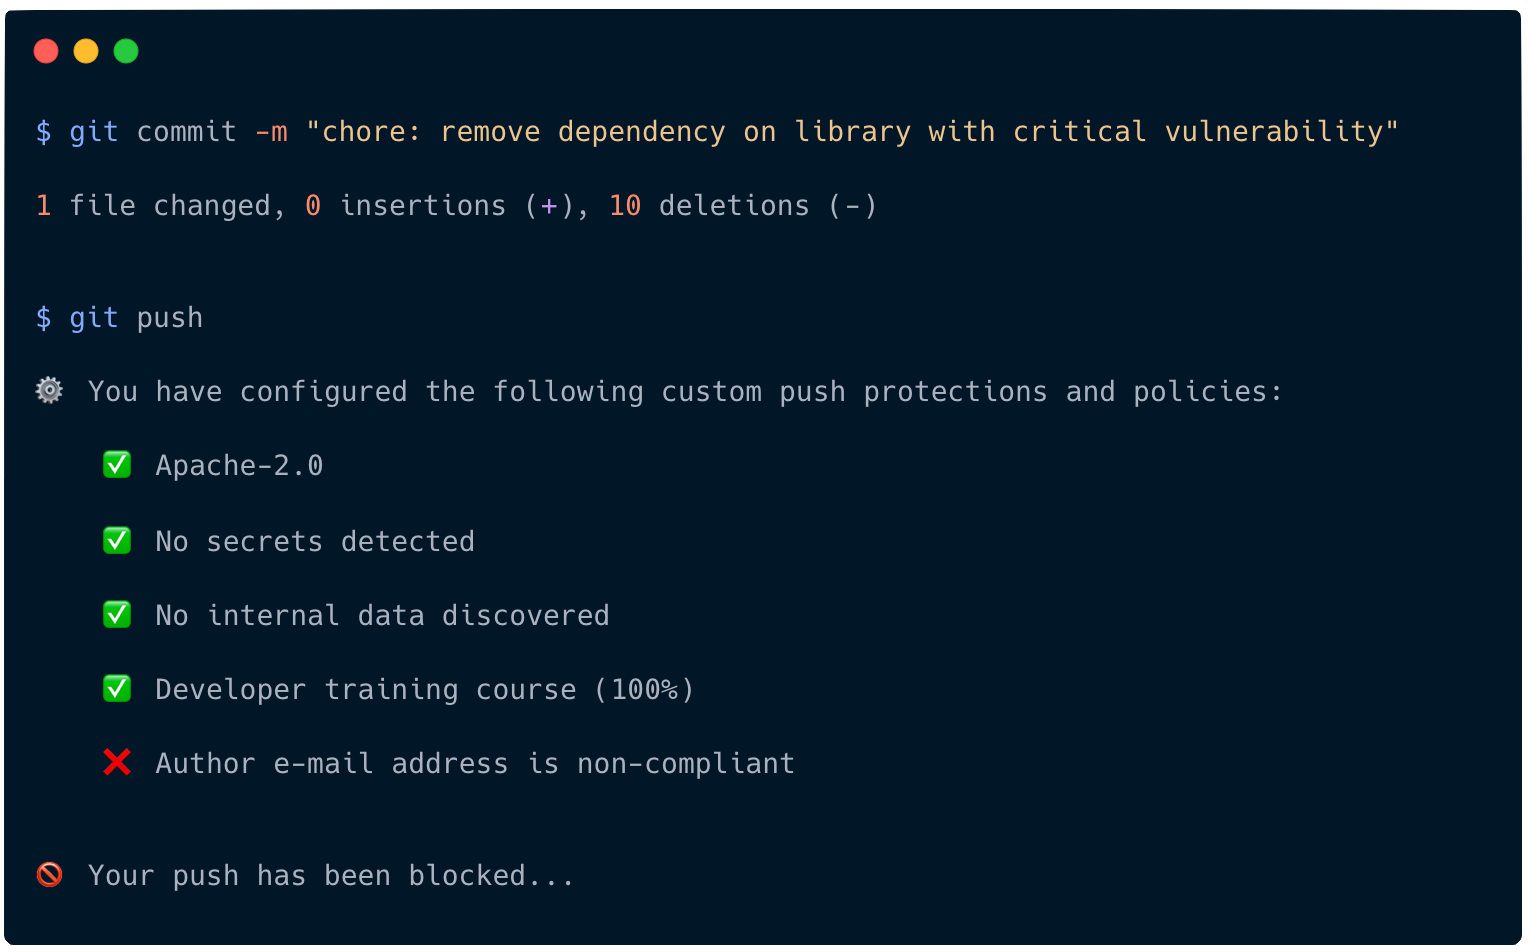
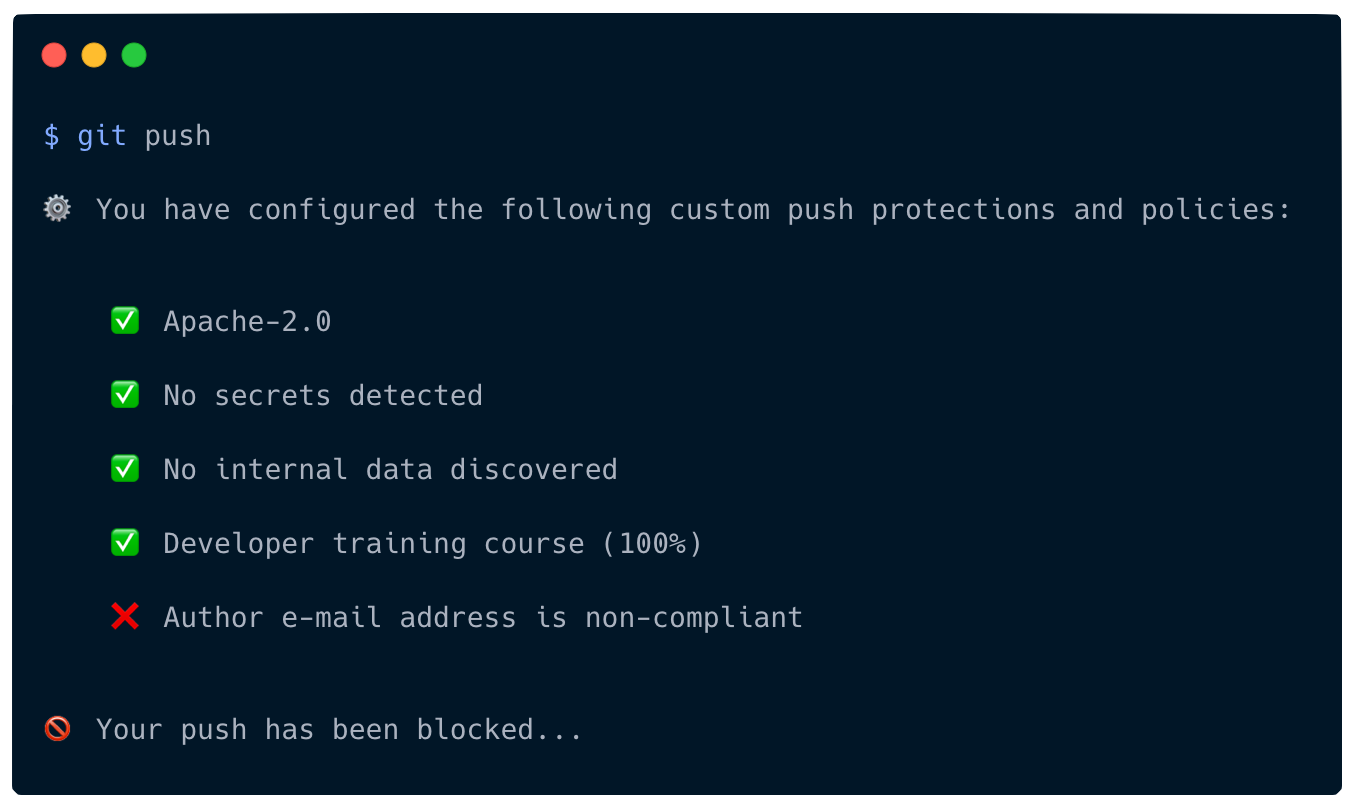
chore: make demo image simpler & remove badge spacing

Changed region(s): [[0.0, 0.0, 1.0, 1.0], [0.062, 0.6203, 0.5889, 0.8375], [0.062, 0.4653, 0.4649, 0.5893]]

diff --git a/README.md b/README.md
@@ -21,13 +21,13 @@
 
   <br />
 
-[![FINOS - Released](https://cdn.jsdelivr.net/gh/finos/contrib-toolbox@master/images/badge-released.svg?colorA=000000)](https://finosfoundation.atlassian.net/wiki/display/FINOS/Released)&nbsp;&nbsp;&nbsp;
-[![NPM](https://img.shields.io/npm/v/@finos/git-proxy?colorA=00C586&colorB=000000)](https://www.npmjs.com/package/@finos/git-proxy)&nbsp;&nbsp;&nbsp;
-[![Build](https://img.shields.io/github/actions/workflow/status/finos/git-proxy/nodejs.yml?branch=main&label=CI&logo=github&colorA=00C586&colorB=000000)](https://github.com/finos/git-proxy/actions/workflows/nodejs.yml)&nbsp;&nbsp;&nbsp;
-[![License](https://img.shields.io/github/license/finos/git-proxy?colorA=00C586&colorB=000000)](https://github.com/finos/git-proxy/blob/main/LICENSEP)&nbsp;&nbsp;&nbsp;
-[![Contributors](https://img.shields.io/github/contributors/finos/git-proxy?colorA=00C586&colorB=000000)](https://github.com/finos/git-proxy/graphs/contributors)&nbsp;&nbsp;&nbsp;
-[![Stars](https://img.shields.io/github/stars/finos/git-proxy?colorA=00C586&colorB=000000)](https://github.com/finos/git-proxy/stargazers)&nbsp;&nbsp;&nbsp;
-[![Forks](https://img.shields.io/github/forks/finos/git-proxy?colorA=00C586&colorB=000000)](https://github.com/finos/git-proxy/forks)&nbsp;&nbsp;&nbsp;
+[![FINOS - Released](https://cdn.jsdelivr.net/gh/finos/contrib-toolbox@master/images/badge-released.svg?colorA=000000)](https://finosfoundation.atlassian.net/wiki/display/FINOS/Released)
+[![NPM](https://img.shields.io/npm/v/@finos/git-proxy?colorA=00C586&colorB=000000)](https://www.npmjs.com/package/@finos/git-proxy)
+[![Build](https://img.shields.io/github/actions/workflow/status/finos/git-proxy/nodejs.yml?branch=main&label=CI&logo=github&colorA=00C586&colorB=000000)](https://github.com/finos/git-proxy/actions/workflows/nodejs.yml)
+[![License](https://img.shields.io/github/license/finos/git-proxy?colorA=00C586&colorB=000000)](https://github.com/finos/git-proxy/blob/main/LICENSEP)
+[![Contributors](https://img.shields.io/github/contributors/finos/git-proxy?colorA=00C586&colorB=000000)](https://github.com/finos/git-proxy/graphs/contributors)
+[![Stars](https://img.shields.io/github/stars/finos/git-proxy?colorA=00C586&colorB=000000)](https://github.com/finos/git-proxy/stargazers)
+[![Forks](https://img.shields.io/github/forks/finos/git-proxy?colorA=00C586&colorB=000000)](https://github.com/finos/git-proxy/forks)
 
 </div>
 <br />
